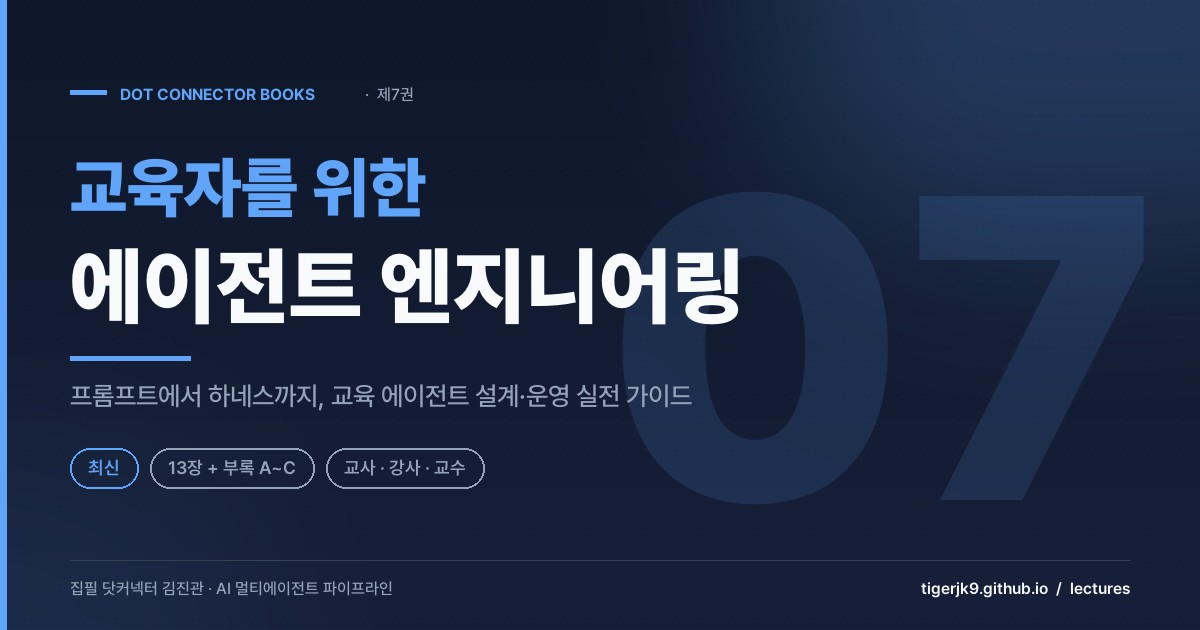
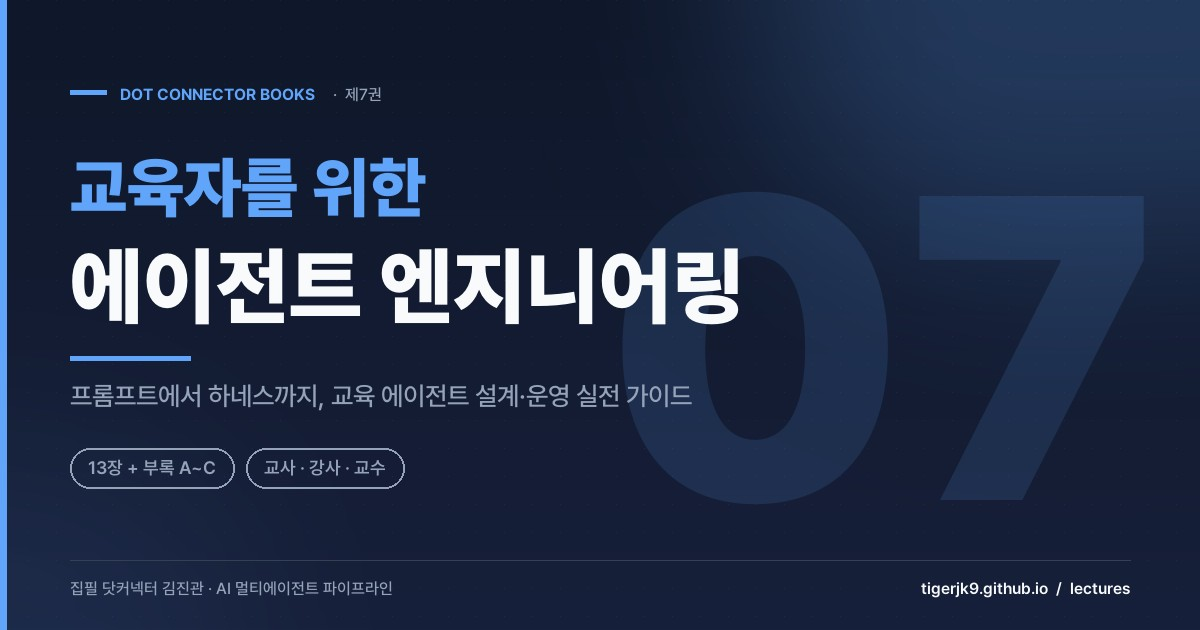
feat: 강의자료 도서 원고 8권 추가 — 바이브 코딩 신간(한빛미디어) 큐레이션 정리본
- _lectures/vibecode-for-teacher/: 4부 8장+부록 목차·파트별 요약·실습표·도구목록·컴패니언 GitHub 소개 (조판원고 전문 미포함, categories/tags 없이 격리)
- _data/books.yml: 제8권 locked 카드(공통 비번 게이트) 추가, 7권 최신 배지 해제
- 표지 book-08(한빛미디어·5인 저자 브랜딩) 신규, book-07 최신 칩 제거 재생성
- scripts/gen_book_covers.py: 8권 등록·볼륨 인자·eyebrow/footer 오버라이드
- CLAUDE.md: 도서 섹션 8권 갱신

Claude-Session: https://claude.ai/code/session_014pM3mCZF3VCHJXBHnSh1Pk

Changed region(s): [[0.0617, 0.6937, 0.4008, 0.7841], [0.2775, 0.1206, 0.3392, 0.181]]

diff --git a/scripts/gen_book_covers.py b/scripts/gen_book_covers.py
@@ -34,13 +34,24 @@ LINE = (51, 65, 85)
 
 BOOKS = [
     {
+        "volume": 8,
+        "slug": "book-08",
+        "accent": (34, 211, 238),   # cyan-400
+        "eyebrow": "한빛미디어 신간",
+        "footer": "이상선 · 김진관 · 김상섭 · 이대형 · 윤신영 지음",
+        "title_lines": ["바이브 코딩", "교사를 위한 웹앱 만들기"],
+        "subtitle": "PRD·MVP에서 API·AI·Supabase·로컬 배포까지, 코드 없이 웹앱 만들기",
+        "chips": ["4부 8장 + 부록", "교사 · 비개발자"],
+        "status": "최신",
+    },
+    {
         "volume": 7,
         "slug": "book-07",
         "accent": (96, 165, 250),   # blue-400
         "title_lines": ["교육자를 위한", "에이전트 엔지니어링"],
         "subtitle": "프롬프트에서 하네스까지, 교육 에이전트 설계·운영 실전 가이드",
         "chips": ["13장 + 부록 A~C", "교사 · 강사 · 교수"],
-        "status": "최신",
+        "status": None,
     },
     {
         "volume": 6,
@@ -173,8 +184,10 @@ def draw_cover(book: dict) -> Path:
     # Eyebrow
     y = 84
     d.rectangle([x, y + 6, x + 36, y + 10], fill=accent)
-    d.text((x + 50, y), "DOT CONNECTOR BOOKS", font=font("Bold", 16), fill=accent)
-    d.text((x + 50 + 245, y), f"·  제{book['volume']}권", font=font("Medium", 16), fill=INK_DIM)
+    eyebrow = book.get("eyebrow", "DOT CONNECTOR BOOKS")
+    d.text((x + 50, y), eyebrow, font=font("Bold", 16), fill=accent)
+    ebw = text_width(d, eyebrow, font("Bold", 16))
+    d.text((x + 50 + ebw + 18, y), f"·  제{book['volume']}권", font=font("Medium", 16), fill=INK_DIM)
 
     # Title — line 1 accent, line 2 main ink (both autofit)
     f1 = fit_font(d, book["title_lines"][0], "Black", 66, max_w)
@@ -203,7 +216,8 @@ def draw_cover(book: dict) -> Path:
 
     # Footer
     d.line([70, H - 70, W - 70, H - 70], fill=LINE, width=1)
-    d.text((70, H - 52), "집필 닷커넥터 김진관 · AI 멀티에이전트 파이프라인", font=font("Medium", 16), fill=INK_DIM)
+    footer = book.get("footer", "집필 닷커넥터 김진관 · AI 멀티에이전트 파이프라인")
+    d.text((70, H - 52), footer, font=font("Medium", 16), fill=INK_DIM)
     right = "tigerjk9.github.io  /  lectures"
     f = font("SemiBold", 16)
     tw = text_width(d, right, f)
@@ -216,7 +230,12 @@ def draw_cover(book: dict) -> Path:
 
 
 def main() -> None:
+    import sys
+
+    want = {int(a) for a in sys.argv[1:] if a.isdigit()}
     for book in BOOKS:
+        if want and book["volume"] not in want:
+            continue
         out = draw_cover(book)
         print(f"[OK] {out.relative_to(ROOT)}  ({out.stat().st_size // 1024} KB)")
 

diff --git a/_lectures/vibecode-for-teacher/index.md b/_lectures/vibecode-for-teacher/index.md
@@ -1,0 +1,112 @@
+---
+title: "바이브 코딩 신간 — 교사를 위한 웹앱 만들기 (정리본)"
+layout: lecture
+permalink: /lectures/vibecode-for-teacher/
+date: 2026-07-21
+author_profile: false
+toc: true
+toc_sticky: true
+header:
+  teaser: /assets/lectures/books/book-08-cover.jpg
+  og_image: /assets/lectures/books/book-08-cover.jpg
+---
+
+한빛미디어에서 출간 예정인 바이브 코딩 신간의 조판원고를 큐레이션한 정리본이다. 이 책은 코드를 직접 쓰지 않고도 교실의 불편함을 웹앱으로 해결하는 과정을, 문제 발견부터 로컬 개발·배포까지 한 흐름으로 담았다. 정식 서명은 아직 확정되지 않았으며, 아래는 4부 8장과 부록의 구성·핵심 내용·실습을 요약한 것이다. 원문 전체는 싣지 않는다.
+
+## 도서 개요
+
+| 항목 | 내용 |
+|------|------|
+| 저자 | 이상선 · 김진관 · 김상섭 · 이대형 · 윤신영 (공저) |
+| 출판사 | 한빛미디어 |
+| 대상 | 코딩 경험이 없는 교사·비개발자 |
+| 구성 | 4부 8장 + 부록 |
+| 핵심 흐름 | 문제 발견(PRD·MVP) → 외부 연결(API·AI) → 클라우드 저장(Supabase) → 로컬 개발·배포(Antigravity·Git·Vercel) |
+| 주요 도구 | Lovable · Google AI Studio · Supabase · Google Antigravity IDE · GitHub · Vercel |
+| 실습 저장소 | [github.com/lifeofpi-ux/vibecode-for-teacher](https://github.com/lifeofpi-ux/vibecode-for-teacher){:target="_blank"} |
+
+## 함께 보는 실습 저장소
+
+이 책의 예제 코드와 실습 자료는 아래 GitHub 저장소에서 함께 제공된다. 각 장에서 만드는 앱의 프롬프트·코드·설정을 순서대로 따라 할 수 있다.
+
+- **[vibecode-for-teacher · GitHub 저장소](https://github.com/lifeofpi-ux/vibecode-for-teacher){:target="_blank"}**
+
+## 목차
+
+**PART 01. 문제 발견 — 내 불편함이 앱이 되기까지**
+- 1장 모든 아이디어는 교실에서 시작된다
+- 2장 브라우저에서 동작하는 나의 첫 프로그램
+- 3장 AI와 함께 만드는 첫 웹 서비스, 러버블과 웹앱의 개념
+
+**PART 02. 앱에 지식을 더하다 — 고립된 섬에서 연결된 대륙으로**
+- 4장 서비스는 혼자가 아니야 (API 연동)
+- 5장 눈과 귀, 생각을 가진 AI 웹앱 만들기 (웹캠·마이크 활용)
+
+**PART 03. 앱에 클라우드 기능을 심다 — 앱에 날개 달기**
+- 6장 왜 데이터베이스가 필요할까요?
+
+**PART 04. 로컬환경에서 진짜 개발자처럼 일하기**
+- 7장 내 컴퓨터를 리액트 개발 서버로 만들기
+- 8장 개발부터 배포까지 모든 것을 내가 직접
+- 부록 그 밖의 인공지능 도구들 (Cursor · Claude Code)
+
+## 파트별 핵심 요약
+
+### PART 01. 문제 발견
+
+앱 개발의 출발점은 거창한 기획서가 아니라 교사가 매일 겪는 작은 불편함이다. 급식 알리미, 공정성 시비를 없앤 발표자 룰렛, 흩어지던 상담 일지를 데이터로 만드는 기록부, 청소 구역 배정기, 우리 반만의 커스텀 타이머 같은 실제 사례가 그 씨앗을 보여준다. 서술형 답안 200장을 채점하며 '반복의 늪'과 '디지털 역설'에 빠진 혜심 선생님 이야기를 통해, 불편함을 입력·판단·출력의 문제로 차갑게 정의하는 법을 익힌다.
+
+핵심 원칙은 "바이브 코딩을 위한 바이브 코딩은 하지 말라"이다. 기술 자체가 아니라 교사의 삶을 실제로 개선하는 도구를 만드는 것이 목적이며, 좋은 문제일수록 구체적이다. 이 구체화를 돕는 장치로 ADDIE 모형, 사용자 스토리, 기능의 삼총사(입력–처리–출력), MVP(최소 기능 제품), 그리고 한 장짜리 PRD 템플릿을 제시한다. 교사는 무엇을 왜 만들지 정하는 PM이 되고, AI는 그것을 구현하는 개발자가 된다.
+
+2장은 이 설계도를 실제로 움직이는 프로그램으로 바꾼다. '출석 체크' 앱을 프롬프트만으로 만들며 웹의 삼총사인 HTML(구조)·CSS(스타일)·JavaScript(동작)를 이해하고, 바닐라의 의미, 새로고침해도 사라지지 않는 로컬 스토리지, React와 라이브러리·프레임워크의 차이, NextJS까지 개념을 넓힌다. 3장은 AI 웹앱 빌더 러버블(Lovable)로 '글쓰기 타임라인 SNS'라는 풀스택 서비스를 만들며 프론트엔드·백엔드·데이터베이스·배포·풀스택을 식당(홀·주방·창고·개업·오너 셰프)에 비유해 설명하고, CSR(React)과 SSR(NextJS)의 차이, SEO까지 짚는다.
+
+### PART 02. 앱에 지식을 더하다
+
+혼자 뚝딱거리던 앱을 세상의 데이터·지능과 연결하는 파트다. 4장은 API를 '내 앱이 외부 서비스에 정보를 달라고 말을 거는 통로'로 정의하고, 생성형 AI 개발의 베이스캠프인 Google AI Studio의 Build·App Gallery·Remix를 익힌다. JSON 구조를 읽는 눈, 오픈 API와 명세서를 찾는 법을 배운 뒤 NEIS 오픈 API를 연결해 매일 아침 자동으로 갱신되는 급식 메뉴 앱을 만든다. REST API와 API Key의 개념도 이 과정에서 자연스럽게 잡힌다.
+
+5장은 앱에 눈과 귀, 생각을 심는다. 웹캠·마이크를 활용한 실시간 사물 인식 영어 학습 앱(Snap & Learn English)을 PRD에서 프롬프트, 제작까지 완성하고, AI 글쓰기 튜터에 OCR 기능을 더한다. 나아가 메타 프롬프팅으로 프롬프트를 고도화하고, 엔드포인트와 모델(OpenAI·Gemini), 온도(Temperature)와 최대 토큰 설정을 다루며, 배포 시 API 키 노출·통신 속도 제한·과금·개인정보 보호 같은 실무 유의점까지 정리한다.
+
+### PART 03. 앱에 클라우드 기능을 심다
+
+프론트엔드 위주였던 앱에 영구적인 기억력을 부여하는 파트다. 새로고침 한 번에 데이터가 사라지는 이유를 메모리(RAM)와 변수·상태 개념으로 설명하고, 지워지지 않는 '디지털 서랍장'인 데이터베이스와 그 4대 작동 원리(CRUD)를 이해시킨다. 서버 없이 백엔드를 빌려 쓰는 BaaS를 '공유 주방'에 비유하며 Airtable·Firebase·Supabase를 비교하고, 최종 선택인 Supabase로 실제 데이터가 오가는 앱을 만든다.
+
+실습에서는 Supabase 프로젝트를 개설해 API 키를 발급받고, 복잡한 SQL 쿼리는 AI Studio에 맡겨 데이터를 실시간으로 저장·조회한다. 이어서 Supabase의 가장 강력한 무기인 Auth(사용자 인증)와 RLS(행 수준 보안)를 설정해 허락받은 사람만 접근하는 안전한 앱으로 발전시킨다. 마지막으로 규칙에 깐깐한 관계형 데이터베이스(RDBMS)와 유연한 NoSQL을 비교하며 어떤 앱에 어떤 구조가 맞는지 탐구한다.
+
+### PART 04. 로컬환경에서 진짜 개발자처럼 일하기
+
+남의 공유 오피스(웹 도구)에서 나와 내 컴퓨터에 개인 스튜디오를 차리는 파트다. 인터넷이 끊기거나 서비스가 유료로 바뀌어도 흔들리지 않는 로컬 개발 환경의 필요성을 짚고, VS Code 계보(Cursor·Windsurf·Antigravity) 안에서 이 책의 메인 도구인 Google Antigravity IDE(2.0, Agent-First)를 선택한 이유를 설명한다. localhost와 포트의 원리, Node.js 설치, Vite로 리액트 프로젝트 만들기, npm install과 npm run dev, Hot Reload 체험을 거쳐 '우리 반 실시간 칭찬 보드'를 만든다. 환경변수와 .env로 비밀 키를 안전하게 관리하는 법도 함께 배운다.
+
+8장은 개발부터 배포까지 전 과정을 스스로 통제하게 한다. Git·GitHub·GitHub Desktop의 차이를 정리하고 커밋·푸시·풀 세 가지로 버전 관리를 익히며, 실수했을 때 과거로 되돌리는 법을 실습한다. 이어 Vercel에 GitHub를 연결하고 환경변수를 설정해 배포하며, 코드를 고치면 자동으로 반영되는 CI/CD의 마법을 경험한다. 부록에서는 Cursor와 Claude Code를 로컬에 설치·실행하는 법을 안내해 다른 AI 개발 도구로 확장할 길을 연다.
+
+## 이 책에서 직접 만들어 보는 것
+
+| 장 | 실습 결과물 | 핵심 도구 |
+|----|------------|-----------|
+| 1장 | 나만의 1페이지 PRD 초안 | PRD 템플릿 |
+| 2장 | 출석 체크 웹앱 | 바닐라 JS · 로컬 스토리지 |
+| 3장 | 글쓰기 타임라인 SNS (풀스택) | Lovable · Supabase |
+| 4장 | 급식 메뉴 조회 앱 | NEIS 오픈 API · Google AI Studio |
+| 5장 | 실시간 사물 인식 영어 학습 앱 | 웹캠 · Gemini |
+| 5장 | AI 글쓰기 튜터 (+ OCR) | Google AI Studio |
+| 6장 | 클라우드 To-Do 앱 (보안 적용) | Supabase · Auth · RLS |
+| 7장 | 우리 반 실시간 칭찬 보드 | Antigravity IDE · Vite · React |
+| 8장 | GitHub 버전 관리 + Vercel 배포 | GitHub Desktop · Vercel · CI/CD |
+| 부록 | 로컬 AI 개발 도구 세팅 | Cursor · Claude Code |
+
+## 등장하는 도구·서비스
+
+| 분류 | 도구 |
+|------|------|
+| AI 웹앱 빌더 | Lovable(러버블) |
+| AI 개발·멀티모달 | Google AI Studio(Gemini) · OpenAI API |
+| 백엔드·데이터(BaaS) | Supabase · Firebase · Airtable |
+| 공공 데이터 | NEIS 오픈 API |
+| 로컬 개발 | Google Antigravity IDE(2.0) · Cursor · Windsurf · VS Code · Node.js · Vite · npm |
+| 버전 관리·배포 | Git · GitHub · GitHub Desktop · Vercel |
+| 핵심 개념 | PRD · MVP · HTML/CSS/JS · React/NextJS · CSR/SSR · SEO · REST API · JSON · API Key · CRUD · RLS · 환경변수(.env) · CI/CD |
+
+## 정리
+
+이 책은 교사가 코드를 배우지 않고도 교실의 문제를 스스로 웹앱으로 풀어내는 전 과정을 다룬다. 문제를 정의하는 PRD에서 시작해, 외부 데이터와 AI를 연결하고, 클라우드에 데이터를 저장하고, 마침내 내 컴퓨터에서 진짜 개발자처럼 배포하기까지의 흐름이 하나로 이어진다. 각 장의 실습은 위 GitHub 저장소에서 코드와 함께 따라 할 수 있다.
+
+> 이 페이지는 한빛미디어 출간 예정 원고의 구성과 내용을 요약·정리한 큐레이션 자료다. 원문 전체(조판원고)와 도서 내 이미지는 포함하지 않는다.

diff --git a/CLAUDE.md b/CLAUDE.md
@@ -543,7 +543,7 @@ git fetch origin && git rebase origin/main --autostash && git push origin main
 
 **격리 모드** — `_lectures/` collection은 `_posts` 흐름과 분리. 사이드바·지식그래프·검색에 침투 0건. `_posts` 400+개·`knowledge-graph.json`·`_includes/sidebar/*.html` 영향 없음.
 
-**도서 원고 섹션 (2026-07-07)** — `/lectures/` 허브는 "워크숍 강의"(`_data/lectures.yml`) + "도서 원고"(`_data/books.yml`) 2섹션 구성. 도서 7권은 `tigerjk9/Book-Publisher`(비공개 레포) 완성 원고 — 7권 전부 라이브 Vercel 웹 도서로 새 탭 연결(웹 도서가 단일 진실 소스, 원고 개정 시 Vercel만 재배포하면 블로그는 무수정. 1권은 teacher-claude-guide.vercel.app — 최초 편입 때 배포 없는 줄 알고 블로그 내 전문 렌더링했다가 사용자가 URL 확인해 줘 제거). 통일 표지 재생성: `py scripts/gen_book_covers.py` (`.fonts/` Pretendard 필요, 출력 `assets/lectures/books/book-0N-cover.jpg`, 권별 액센트 컬러). 상태 배지: 최신(앰버)·이전 판(슬레이트). 4권 웹 도서와 `vibe-coding-git-github` 슬라이드 강의는 동일 주제의 별개 자산(도서 vs 강의)으로 의도적 공존. 카드에는 저자 크레딧 필수(도서 `author` 필드 + "저자" 라벨, 타사 원본 자료는 `author` 원작 + `curator` 2단 — AIEP 튜토리얼 선례), 섹션 도입 산문은 넣지 않는다(헤딩+카드 그리드만). 외부 링크형 강의 카드(학생용 생성형 AI 안내서·AIEP·AX 핸드북) 표지는 사이트 히어로 스크린샷 — 이 머신은 playwright·gstack browse가 없거나 고장이라 **Edge 헤드리스**(`--user-data-dir` 임시 프로필 필수)로 캡처한다.
+**도서 원고 섹션 (2026-07-07, 8권 갱신 2026-07-21)** — `/lectures/` 허브는 "워크숍 강의"(`_data/lectures.yml`) + "도서 원고"(`_data/books.yml`) 2섹션 구성. 도서 1~7권은 `tigerjk9/Book-Publisher`(비공개 레포) 완성 원고 — 전부 라이브 Vercel 웹 도서로 새 탭 연결(웹 도서가 단일 진실 소스, 원고 개정 시 Vercel만 재배포하면 블로그는 무수정. 1권은 teacher-claude-guide.vercel.app — 최초 편입 때 배포 없는 줄 알고 블로그 내 전문 렌더링했다가 사용자가 URL 확인해 줘 제거). **8권(2026-07-21)은 한빛미디어 신간(바이브 코딩, 교사를 위한 웹앱 만들기 · 가제 · 이상선·김진관·김상섭·이대형·윤신영 공저)으로 유일하게 블로그 내부 큐레이션 정리본(`_lectures/vibecode-for-teacher/`)에 연결** — 조판원고 전체 대신 목차·파트별 요약·실습 표·컴패니언 GitHub(lifeofpi-ux/vibecode-for-teacher)만. 통일 표지 재생성: `py scripts/gen_book_covers.py [볼륨…]` (인자 없으면 전체, `7 8`처럼 특정 권만 재생성 — 기존 01~06 무변경 유지용. 8권은 per-book `eyebrow`/`footer` 오버라이드로 닷커넥터 대신 한빛미디어 브랜딩. `.fonts/` Pretendard 필요, 출력 `assets/lectures/books/book-0N-cover.jpg`, 권별 액센트 컬러). 상태 배지: 최신(앰버)·이전 판(슬레이트) — **최신은 단일**이라 신간 추가 시 직전 최신 권의 `status: 최신` 제거 + 표지 재생성(8권 추가로 7권 최신 배지 해제). **잠금 카드**(`locked: true`+`locked_payload`)는 대상 URL을 `SHA-256(공통 비번)` 키로 XOR→base64 한 값 — 기존 잠금 자료 7건과 8권 모두 **하나의 공통 비번**을 공유한다(payload를 그 비번으로 복호화하면 URL 복원, 새 항목도 동일 알고리즘으로 생성). 비번 값은 코드/문서에 남기지 않음(메모리 `project_locked_cards`). 4권 웹 도서와 `vibe-coding-git-github` 슬라이드 강의는 동일 주제의 별개 자산(도서 vs 강의)으로 의도적 공존. 카드에는 저자 크레딧 필수(도서 `author` 필드 + "저자" 라벨, 타사 원본 자료는 `author` 원작 + `curator` 2단 — AIEP 튜토리얼 선례), 섹션 도입 산문은 넣지 않는다(헤딩+카드 그리드만). 외부 링크형 강의 카드(학생용 생성형 AI 안내서·AIEP·AX 핸드북) 표지는 사이트 히어로 스크린샷 — 이 머신은 playwright·gstack browse가 없거나 고장이라 **Edge 헤드리스**(`--user-data-dir` 임시 프로필 필수)로 캡처한다.
 
 **진입점**:
 ```powershell